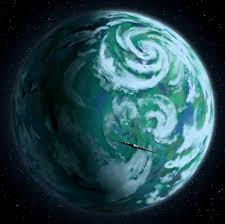
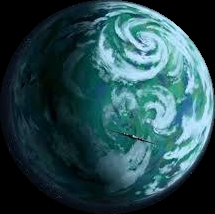
fix: fixed planets images and positions

diff --git a/src/store/reducers/planetsPictures.js b/src/store/reducers/planetsPictures.js
@@ -1,18 +1,18 @@
 import tatooine from "../../assets/planets/Tatooine.jpg";
 import alderaan from "../../assets/planets/Alderaan.jpeg";
-import yarvin from "../../assets/planets/Yarvin.webp";
-import bespin from "../../assets/planets/bespin.webp";
+import yarvin from "../../assets/planets/yarvin2.jpeg";
+import bespin from "../../assets/planets/bespin2.png";
 import endor from "../../assets/planets/endor.jpg";
-import naboo from "../../assets/planets/naboo.webp";
+import naboo from "../../assets/planets/naboo2.png";
 import coruscant from "../../assets/planets/coruscant.jpg";
-import hoth from "../../assets/planets/hoth.webp";
+import hoth from "../../assets/planets/hoth2.png";
 import kamino from "../../assets/planets/kamino.jpg";
-import dagobah from "../../assets/planets/Dagobah.webp";
+import dagobah from "../../assets/planets/dagobah2.png";
 import {PLANET_PICTURES} from "../actions/actionTypes";
 
 const initialState = {
-    planets: [tatooine, alderaan, yarvin, bespin, endor, naboo,
-        coruscant, hoth, kamino, dagobah]
+    planets: [tatooine, alderaan, yarvin, hoth, dagobah, bespin,
+        endor, naboo, coruscant, kamino]
 }
 
 export const planetsPictures = (state = initialState, action) => {

diff --git a/src/components/PlanetCard/planetcard.css b/src/components/PlanetCard/planetcard.css
@@ -138,7 +138,7 @@
 @media screen and (max-width: 768px) {
     .planetcard__image {
         height: 120px;
-        margin: .5rem;
+        margin: 2rem;
     }
 
     .planetcard__information {
@@ -191,9 +191,9 @@
         grid-column: 1 / 5;
     }
 
-    .endor > .planetcard__image {
+    /* .endor > .planetcard__image {
         margin: 0;
-    }
+    } */
 
     .coruscant {
         display: flex;
